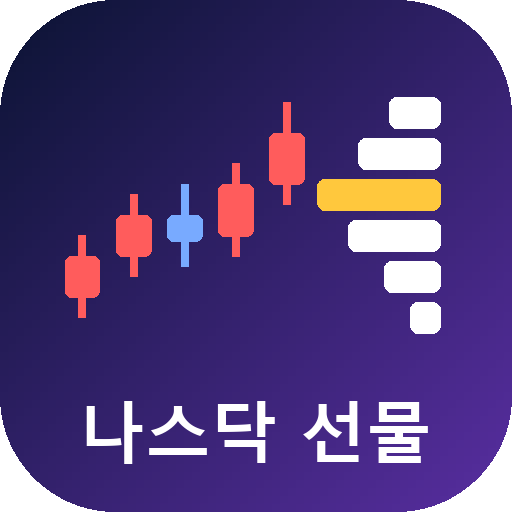
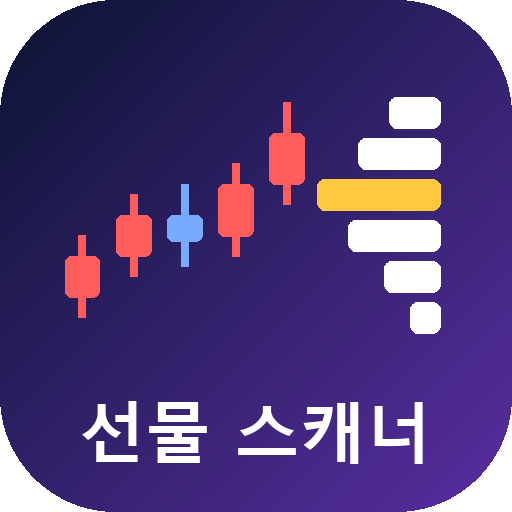
선물 스캐너로 이름 변경, 청산가 계산기 이름 변경 (v1.3.0)

Changed region(s): [[0.1562, 0.7812, 0.8438, 0.9062]]

diff --git a/app.js b/app.js
@@ -1,11 +1,11 @@
-/* 나스닥 선물 — OKX·바이낸스 나스닥·S&P·반도체 ETF 무기한 선물 분석 앱 (공부용, 자동 주문 없음)
+/* 선물 스캐너 — OKX·바이낸스 나스닥·S&P·반도체 ETF 무기한 선물 분석 앱 (공부용, 자동 주문 없음)
  * 화면: 📊 스캐너 · 📈 차트(매물대) · 🧭 선물 지표 · 🔔 신호 · 🧮 도구
  * 시세: OKX·바이낸스·바이비트 공개 API(키 없음). 디스코드 알림은 '가격 위치' 앱과 같은 구글 Apps Script를 씀.
  * 계산 파일: scan.js(스캐너) · levels.js(매물대·지지/저항) · nq.js(QQQ 규칙 신호)
  */
 'use strict';
 
-const APP_VERSION = '1.2.1';
+const APP_VERSION = '1.3.0';
 
 /* ───────── 저장(IndexedDB 키-값) ───────── */
 const KV = (() => {
@@ -154,7 +154,7 @@ const SORTS = { up: '🔼 반등 포착', dn: '🔽 하락 전환 포착', stron
 const HIGHER = { '15m': '1H', '30m': '4H', '1H': '4H', '4H': '1D', '1D': null };
 const SETS = { top: '자동 상위 20', core: '핵심(나스닥·S&P·반도체)', nasdaq: '나스닥100', sp500: 'S&P500', semi: '반도체', single: '개별주 레버리지', other: '기타 ETF' };
 async function viewScan() {
-  setTitle('📊 ETF 선물 스캐너');
+  setTitle('📊 선물 스캐너');
   const prefs = await KV.get('scanPrefs', { set: 'top', tf: '1H', sort: 'up' }); prefs.tf = fixTf(prefs.tf);
   view().innerHTML = `<div class="card warnlist" style="margin-top:0;font-size:13px">${DISC}</div>
     <div class="chips">${Object.entries(SETS).map(([k, v]) => `<button class="chip${prefs.set === k ? ' on' : ''}" data-set="${k}" type="button">${v}</button>`).join('')}</div>
@@ -276,7 +276,7 @@ async function viewChart(sym) {
       <h4>⬆ 위쪽 저항</h4><ul class="lvl">${L.res.map((x) => lvRow(x, 'res')).join('') || '<li class="muted">위쪽에 뚜렷한 저항 없음</li>'}</ul>
       <h4>⬇ 아래쪽 지지</h4><ul class="lvl">${L.sup.map((x) => lvRow(x, 'sup')).join('') || '<li class="muted">아래쪽에 뚜렷한 지지 없음</li>'}</ul>
       ${zoneBox(bz, 'buy')}${zoneBox(sz, 'sell')}
-      <a class="btn small" id="toCalc" href="#/t" style="margin-top:8px">🧮 매수 검토 가격대로 위험 계산</a></div>
+      <a class="btn small" id="toCalc" href="#/t" style="margin-top:8px">🧮 매수 검토 가격대로 청산가 계산</a></div>
     <div class="card"><h2>반등·하락 전환 조건 <span class="muted">(${TF[prefs.tf].label})</span></h2>
       <h4>🔼 반등 ${a.upScore}/5</h4><ul class="checks">${a.up.map((c) => `<li>${c.ok ? '✅' : '⬜'} ${esc(c.name)}</li>`).join('')}</ul>
       <h4>🔽 하락 전환 ${a.dnScore}/5</h4><ul class="checks">${a.dn.map((c) => `<li>${c.ok ? '✅' : '⬜'} ${esc(c.name)}</li>`).join('')}</ul>
@@ -427,12 +427,12 @@ async function viewSignals() {
   if (await relayOn()) relay('ping').then(async (d) => { if (d.scan) { const cb = $('#scAl'); if (cb) cb.checked = !!d.scan.enabled; await KV.set('scAlert', { enabled: !!d.scan.enabled }); } }).catch(() => {});
 }
 
-/* ═════════ 🧮 도구(위험 계산기·연결 설정) ═════════ */
+/* ═════════ 🧮 도구(청산가 계산기·연결 설정) ═════════ */
 async function viewTools() {
   setTitle('🧮 도구');
   const cfg = await KV.get('relay', {}), pre = await KV.get('calcPrefill', null), cp = await KV.get('calc', { acct: 1000, risk: 1, lev: 3, side: 'long', rr: 2, mmr: 0.5 });
   if (pre) { cp.entry = +pre.entry.toFixed(2); cp.stop = +pre.stop.toFixed(2); cp.sym = pre.sym; cp.side = 'long'; if (pre.rr) cp.rr = pre.rr; await KV.set('calcPrefill', null); }
-  view().innerHTML = `<div class="card" style="margin-top:0"><h2>🧮 위험 계산기 <span class="muted">${cp.sym ? '(' + esc(cp.sym) + ' 차트에서 가져옴)' : ''}</span></h2>
+  view().innerHTML = `<div class="card" style="margin-top:0"><h2>🧮 청산가 계산기 <span class="muted">${cp.sym ? '(' + esc(cp.sym) + ' 차트에서 가져옴)' : ''}</span></h2>
       <div class="calcintro">💡 <b>이렇게 씁니다</b>: "이번 거래가 틀리면 <b>최대 얼마까지 잃어도 되는지</b>"를 먼저 정하면, 손절가까지 거리를 보고 <b>몇 주(계약)를 사야 하는지</b> 거꾸로 계산해 줍니다. 손절가에 닿아도 정한 금액만 잃도록 수량을 맞추는 방법입니다.</div>
       <div class="seg" style="margin-top:8px"><label><input type="radio" name="side" value="long"${cp.side !== 'short' ? ' checked' : ''}><span>📈 롱 (오르면 이익)</span></label><label><input type="radio" name="side" value="short"${cp.side === 'short' ? ' checked' : ''}><span>📉 숏 (내리면 이익)</span></label></div>
       <div class="calcgrid">
@@ -455,7 +455,7 @@ async function viewTools() {
       <label for="r_url">스크립트 웹 앱 주소</label><input id="r_url" value="${esc(cfg.url || '')}" placeholder="https://script.google.com/macros/s/…/exec" autocomplete="off">
       <label for="r_key">앱 키 (APP_KEY)</label><input id="r_key" type="password" value="${esc(cfg.key || '')}" autocomplete="off">
       <button class="btn primary block" id="r_save" type="button" style="margin-top:10px">저장하고 연결 확인</button><div id="r_res" style="margin-top:8px"></div></div>
-    <div class="card"><h2>앱 정보</h2><div class="muted" style="font-size:13px">나스닥 선물 v${APP_VERSION} · OKX·바이낸스 공개 시세(키·주문 없음) · 홈 화면에 추가: 크롬 ⋮ → '홈 화면에 추가'<br>계산: 스캐너·QQQ 규칙 신호는 '가격 위치' 앱과 같은 식, 매물대는 최근 200봉 거래량 분포.</div></div>
+    <div class="card"><h2>앱 정보</h2><div class="muted" style="font-size:13px">선물 스캐너 v${APP_VERSION} · OKX·바이낸스 공개 시세(키·주문 없음) · 홈 화면에 추가: 크롬 ⋮ → '홈 화면에 추가'<br>계산: 스캐너·QQQ 규칙 신호는 '가격 위치' 앱과 같은 식, 매물대는 최근 200봉 거래량 분포.</div></div>
     <div class="disc">${DISC}</div>`;
   const calc = async () => {
     const v = (id) => parseFloat($('#' + id).value), side = $('[name=side]:checked').value;

diff --git a/index.html b/index.html
@@ -4,17 +4,17 @@
   <meta charset="utf-8">
   <meta name="viewport" content="width=device-width, initial-scale=1, viewport-fit=cover">
   <meta name="theme-color" content="#0C1434">
-  <meta name="description" content="나스닥 선물 — OKX·바이낸스 나스닥·S&P·반도체 ETF 무기한 선물 스캐너(반등·하락 전환·거래량 급증·변동성), 매물대 차트, 미결제약정·펀딩비, 위험 계산기 (공부용, 자동 주문 없음)">
-  <title>나스닥 선물</title>
+  <meta name="description" content="선물 스캐너 — OKX·바이낸스 나스닥·S&P·반도체 ETF 무기한 선물 스캐너(반등·하락 전환·거래량 급증·변동성), 매물대 차트, 미결제약정·펀딩비, 청산가 계산기 (공부용, 자동 주문 없음)">
+  <title>선물 스캐너</title>
   <link rel="manifest" href="manifest.webmanifest">
-  <link rel="icon" href="icons/icon-192.png?v=1">
-  <link rel="apple-touch-icon" href="icons/icon-192.png?v=1">
+  <link rel="icon" href="icons/icon-192.png?v=2">
+  <link rel="apple-touch-icon" href="icons/icon-192.png?v=2">
   <link rel="stylesheet" href="style.css">
 </head>
 <body>
   <header class="top">
     <button class="back" id="backBtn" aria-label="뒤로" hidden>‹</button>
-    <h1 id="title">나스닥 선물</h1>
+    <h1 id="title">선물 스캐너</h1>
   </header>
   <main id="view" aria-live="polite"></main>
   <nav class="tabs" aria-label="메뉴">

diff --git a/sw.js b/sw.js
@@ -1,5 +1,5 @@
 // 앱 화면 파일을 폰에 저장해 인터넷 없이도 열리게 한다(시세는 항상 새로 받음).
-const CACHE = 'nqfut-v1.2.1';
+const CACHE = 'nqfut-v1.3.0';
 const FILES = ['./', 'index.html', 'style.css', 'scan.js', 'levels.js', 'nq.js', 'nqui.js', 'app.js', 'manifest.webmanifest', 'icons/icon-192.png', 'icons/icon-512.png', 'icons/icon-maskable-512.png'];
 
 self.addEventListener('install', (e) => {

diff --git a/icons/make_icon.py b/icons/make_icon.py
@@ -1,4 +1,4 @@
-"""나스닥 선물 앱 아이콘 — 짙은 남색→보라 그라데이션, 캔들 + 오른쪽 매물대 막대, 아래 '나스닥 선물'.
+"""선물 스캐너 앱 아이콘 — 짙은 남색→보라 그라데이션, 캔들 + 오른쪽 매물대 막대, 아래 '선물 스캐너'.
 사용: python make_icon.py OUT_DIR"""
 import sys
 from PIL import Image, ImageDraw, ImageFont
@@ -33,7 +33,7 @@ def draw(S, maskable):
         d.line([(X(x), X(hi)), (X(x), X(lo))], fill=col, width=max(2, int(1.6 * u)))
         d.rounded_rectangle([X(x - 3.4), X(min(op, cl)), X(x + 3.4), X(max(op, cl))], radius=1.2 * u, fill=col)
     f = ImageFont.truetype(FONT, int(13 * u))
-    d.text((S / 2, o + 84 * u), '나스닥 선물', font=f, fill=(255, 255, 255), anchor='mm')
+    d.text((S / 2, o + 84 * u), '선물 스캐너', font=f, fill=(255, 255, 255), anchor='mm')
     if not maskable:
         m = Image.new('L', (S, S), 0)
         ImageDraw.Draw(m).rounded_rectangle([0, 0, S - 1, S - 1], radius=int(S * 0.225), fill=255)
